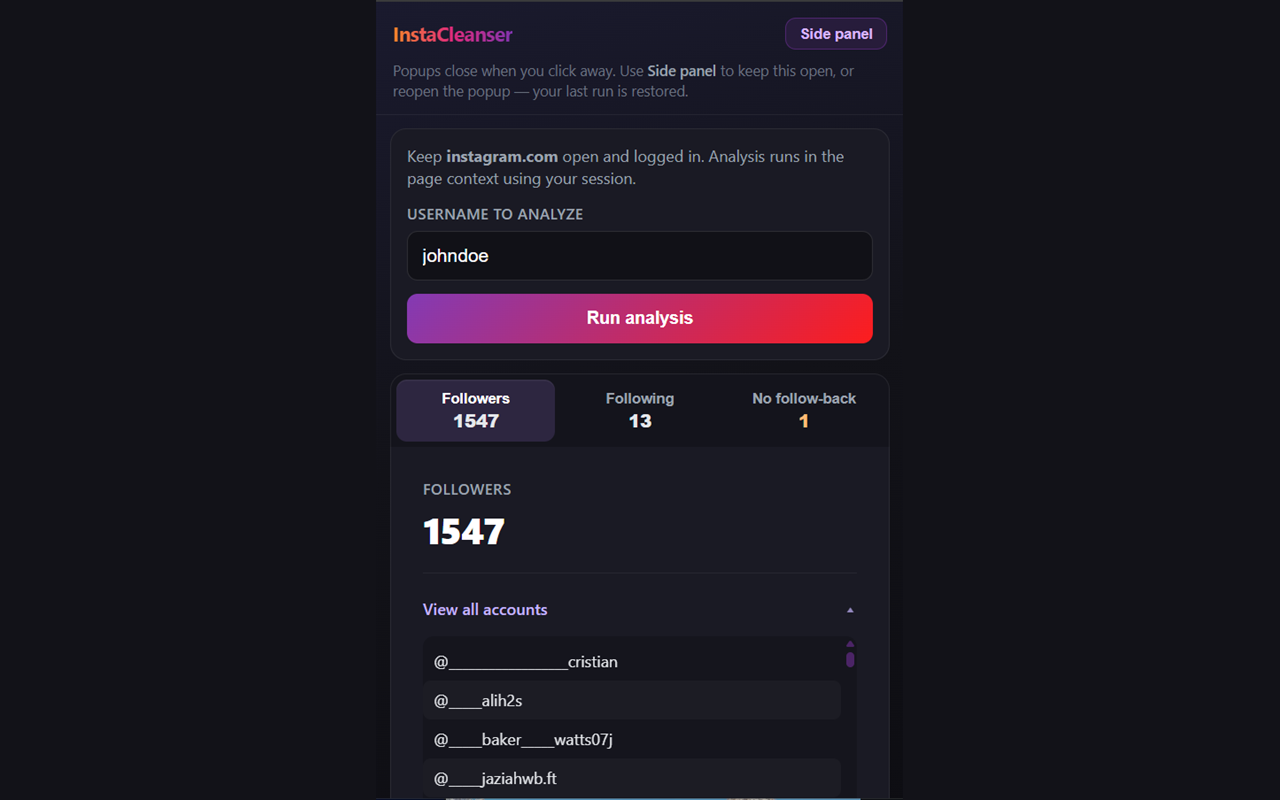
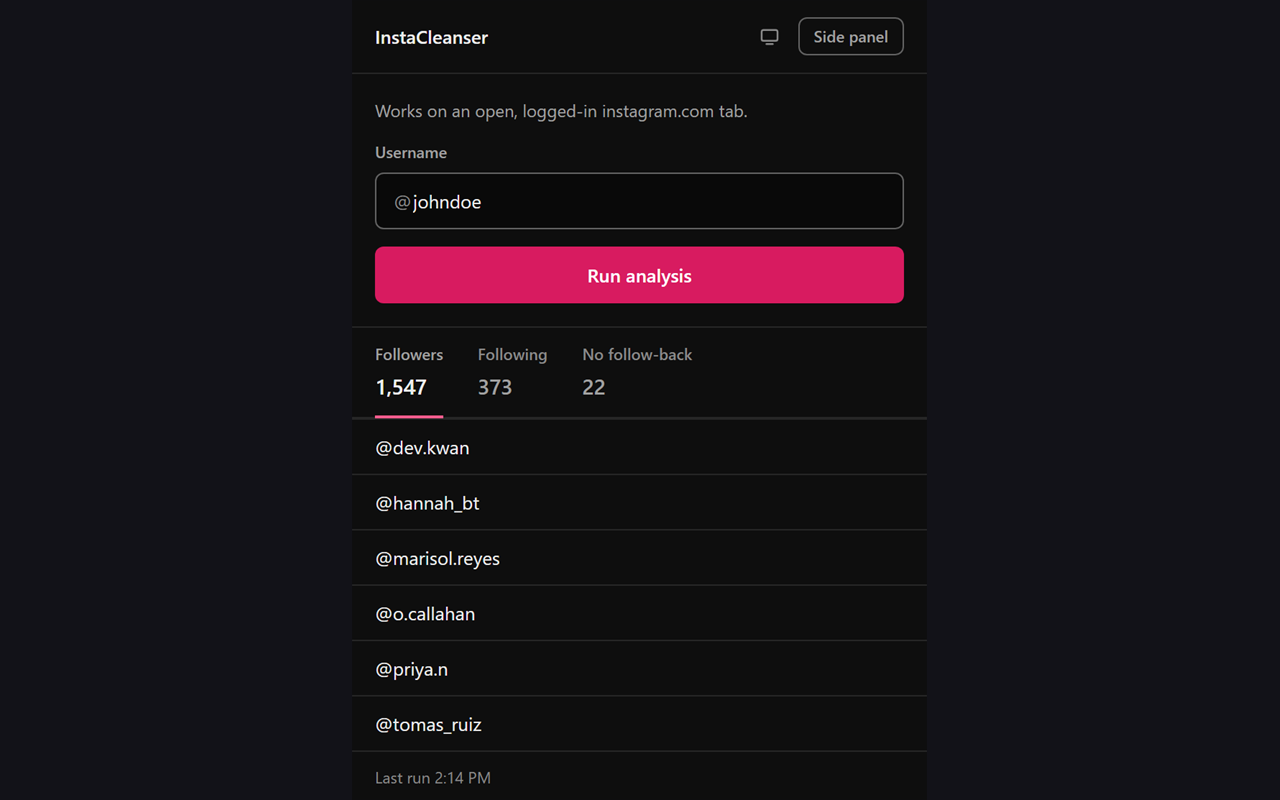
docs: rewrite README and replace the stale screenshots
The README still described and pictured the pre-redesign extension.

Screenshots: assets/icMain.png and icNFB.png showed the old gradient UI, so
they are replaced by four renders of the current popup, light and dark, and
the README serves them through <picture> so they follow the reader's GitHub
theme. They are rendered from the extension's own popup.html/css/js with
placeholder account data, which the README states.

Prose: drops the bold-splatter habit (bold now marks only controls the reader
clicks) and the em-dashes. Reorders so the two install paths sit together
instead of being split by the site-publishing section, and adds a repository
layout table, a short "how it works", and the note that popup.css and
site/styles.css must be kept in sync.

Also corrects a claim that had become false: the site no longer uses "the
same dark palette and gradient accents as the popup". It has no gradients,
and both surfaces are light/dark now.

Reference updates forced by removing the old files: og:image and
twitter:image in site/index.html, and the default source in
tools/make-store-screenshot.ps1. The store marquee is regenerated from the
new screenshot.

diff --git a/site/index.html b/site/index.html
@@ -18,7 +18,7 @@
   <meta property="og:url" content="https://troydavis.me/instacleanser/" />
   <meta
     property="og:image"
-    content="https://troydavis.me/instacleanser/assets/icMain.png"
+    content="https://troydavis.me/instacleanser/assets/popup-main-dark.png"
   />
   <meta name="twitter:card" content="summary_large_image" />
   <meta name="twitter:title" content="InstaCleanser" />
@@ -28,7 +28,7 @@
   />
   <meta
     name="twitter:image"
-    content="https://troydavis.me/instacleanser/assets/icMain.png"
+    content="https://troydavis.me/instacleanser/assets/popup-main-dark.png"
   />
   <script>
     // Applied before first paint so the page never renders in the wrong theme.

diff --git a/README.md b/README.md
@@ -1,70 +1,117 @@
 # InstaCleanser
 
-Chrome extension that compares your Instagram followers and following **in your browser** (same cookies as a normal instagram.com tab), lists people you follow who do not follow you back, and lets you unfollow individually or in bulk when you are viewing **your own** profile. 
+A Chrome extension that compares your Instagram followers and following using the tab you are already logged into, shows who does not follow you back, and unfollows them one at a time or in bulk.
 
-**Note: This is a heavily vibe-coded project that I did for fun after realizing the instaloader api method I was using before in a smaller python version of this was not going to cut it.**
+Everything runs in your own browser session, with the same cookies as a normal instagram.com tab. There is no backend, no InstaCleanser account, and no third-party login.
+
+[Install from the Chrome Web Store](https://chromewebstore.google.com/detail/ecphalengelfdcnhallaepjbjgbcbnbb) · [Website](https://troydavis.me/instacleanser/) · [Privacy policy](https://troydavis.me/instacleanser/privacy.html)
+
+> A heavily vibe-coded project I built for fun, after the Instaloader-based Python version I had before turned out not to cut it.
 
 ## Screenshots
 
-### Main view (Followers / Following)
+<table>
+<tr>
+<td width="50%" valign="top">
+<picture>
+  <source media="(prefers-color-scheme: dark)" srcset="assets/popup-main-dark.png">
+  <img src="assets/popup-main-light.png" alt="InstaCleanser after a run, with the Followers tab selected and the account list below it" width="100%">
+</picture>
+</td>
+<td width="50%" valign="top">
+<picture>
+  <source media="(prefers-color-scheme: dark)" srcset="assets/popup-nonfb-dark.png">
+  <img src="assets/popup-nonfb-light.png" alt="The No follow-back tab, listing accounts you follow that do not follow back, each with an Unfollow button" width="100%">
+</picture>
+</td>
+</tr>
+<tr>
+<td valign="top">After a run, counts sit in the tab strip and the list starts directly below it. Followers and Following share the same layout.</td>
+<td valign="top">On your own profile, No follow-back lists accounts you follow that do not follow back. Unfollow one at a time, or use <strong>Unfollow all</strong>.</td>
+</tr>
+</table>
 
-The main UI after a run: stats, **Followers** / **Following** / **Don’t follow back** tabs, and scrollable lists. The **Followers** tab is shown here; the **Following** tab uses the same list layout.
-
-<img src="assets/icMain.png" alt="InstaCleanser main view with Followers tab and list" width="480" />
-
-### Don’t follow back (unfollow)
-
-On **your own** profile, the **Don’t follow back** tab lists accounts you follow that do not follow you back. You can **Unfollow** one at a time or use **Unfollow all**.
-
-If you analyze **someone else’s** username, those unfollow actions are **disabled** (read-only lists) so you cannot unfollow from another person’s profile.
-
-<img src="assets/icNFB.png" alt="InstaCleanser don’t-follow-back tab with unfollow controls" width="480" />
+Both surfaces follow your system light or dark setting, and carry a toggle if you want to override it. These images are rendered from the extension's own `popup.html`, `popup.css`, and `popup.js` with placeholder account data.
 
 ## Requirements
 
-- Google Chrome or Microsoft Edge (Chromium), **114+** (for the optional side panel).
-- Stay logged in on [instagram.com](https://www.instagram.com) in the tab you use for analysis.
+- Chrome or Edge on Chromium. Version 114 or later if you want the side panel.
+- A logged-in [instagram.com](https://www.instagram.com) tab, open while you run an analysis.
 
-## Install (Chrome Web Store)
+## Install
 
-[InstaCleanser on the Chrome Web Store](https://chromewebstore.google.com/detail/ecphalengelfdcnhallaepjbjgbcbnbb)
+**From the Chrome Web Store:** [InstaCleanser](https://chromewebstore.google.com/detail/ecphalengelfdcnhallaepjbjgbcbnbb). Updates arrive automatically.
 
-## Website (landing page)
-
-Static marketing page for the extension lives in [`site/`](site/). It uses the same dark palette and gradient accents as the popup. Open [`site/index.html`](site/index.html) locally, or serve the repo root so asset paths resolve.
-
-**GitHub Pages (project site):** In the repo on GitHub, go to **Settings → Pages**, set **Source** to **Deploy from a branch**, branch **main**, folder **`/` (root)**. After the build, the site is available at `https://<your-username>.github.io/InstaCleanser/site/` (screenshots load from `/InstaCleanser/assets/…`). If you use a custom domain, update `link rel="canonical"` and the `og:*` / `twitter:*` absolute URLs in [`site/index.html`](site/index.html).
-
-**Privacy policy (Chrome Web Store):** Use [`site/privacy.html`](site/privacy.html) as the policy URL (for example `https://troydavis.me/instacleanser/privacy.html`). `homepage_url` in [`manifest.json`](manifest.json) points at the public site; ship a new package version when you change it.
-
-## Install (developer / unpacked)
+**As an unpacked developer build:**
 
 1. Clone or download this repository.
-2. Open `chrome://extensions` (Chrome) or `edge://extensions` (Edge).
-3. Enable **Developer mode**.
-4. Click **Load unpacked** and choose this folder (the repo root — the one that contains `manifest.json`).
+2. Open `chrome://extensions`, or `edge://extensions` on Edge.
+3. Turn on **Developer mode**.
+4. Choose **Load unpacked** and pick the repo root, the folder holding `manifest.json`.
+
+After changing any file, use the reload button on the extension's card, then close and reopen the popup.
 
 ## Usage
 
 1. Open Instagram in a normal tab and log in.
 2. Click the InstaCleanser toolbar icon.
-3. Enter a **username to analyze** (yours or someone else’s). For unfollow actions, the username must be **yours**; for other profiles, lists are read-only.
-4. Click **Run analysis**. Large accounts take a while.
-5. Use **Side panel** to dock the UI so it stays open while you switch tabs; the toolbar popup closes automatically when you open the side panel.
+3. Enter a username. It can be yours or someone else's.
+4. Choose **Run analysis**. Large accounts take a while.
 
-Data from the last successful run is stored locally in `chrome.storage` and restored when you reopen the popup or side panel.
+Unfollow controls only appear when the username is your own. On anyone else's profile the lists are read-only, so you cannot change your following by mistake.
+
+Use **Side panel** to dock the interface so it stays open while you switch tabs. The toolbar popup closes when the side panel opens.
+
+Your last successful run is cached in `chrome.storage` and comes back when you reopen the popup or panel. Your theme choice is stored separately in `localStorage`, so it can be read before the first paint.
+
+## How it works
+
+There is no public Instagram API for this, so the extension calls the same undocumented GraphQL endpoints the website itself uses. Requests are injected into your active Instagram tab and run in the page context, which is why they carry your session and why the tab has to be open and logged in.
+
+Follower and following lists are paged until exhausted, capped at 500 pages. The no-follow-back list is the set difference between the two.
 
 ## Permissions
 
-- **instagram.com** — run fetches in the page context with your session.
-- **activeTab**, **scripting** — inject analysis/unfollow on the active Instagram tab.
-- **storage** — cache last run and UI state.
-- **sidePanel** — optional docked panel.
+| Permission | Why |
+| --- | --- |
+| `instagram.com` host access | Run fetches in the page context with your session. |
+| `activeTab`, `scripting` | Inject the analysis and unfollow code into the active tab. |
+| `storage` | Cache the last run and interface state on your device. |
+| `sidePanel` | The optional docked panel. |
+
+## Repository layout
+
+| Path | What it is |
+| --- | --- |
+| `manifest.json` | Extension manifest, MV3. |
+| `popup.html`, `popup.css`, `popup.js` | The popup and side panel. One document serves both. |
+| `background.js` | Service worker. |
+| `icons/` | Toolbar and store icons, plus the script that generates them. |
+| `site/` | The landing page and privacy policy. |
+| `assets/` | Screenshots and store artwork. |
+| `tools/` | Store screenshot helper. |
+
+`popup.css` and `site/styles.css` define the same design tokens under the same names. They cannot share a file, since the extension and the site load independently, so keep the two in sync when changing either.
+
+To regenerate the icons: `powershell -File icons/generate-icons.ps1`.
+
+## Publishing the site
+
+The landing page in [`site/`](site/) is static. Open [`site/index.html`](site/index.html) directly, or serve the repo root so the asset paths resolve.
+
+**GitHub Pages:** go to **Settings → Pages**, set **Source** to **Deploy from a branch**, branch `main`, folder `/` (root). The site then lives at `https://<your-username>.github.io/InstaCleanser/site/`, loading screenshots from `/InstaCleanser/assets/`.
+
+On a custom domain, update `rel="canonical"` and the absolute `og:*` and `twitter:*` URLs in [`site/index.html`](site/index.html).
+
+**Privacy policy:** the Chrome Web Store listing points at [`site/privacy.html`](site/privacy.html). `homepage_url` in [`manifest.json`](manifest.json) points at the public site, so ship a new package version when either changes.
 
 ## Disclaimer
 
-Instagram does not offer a public API for this workflow. The extension uses the same undocumented endpoints the website uses; behavior may change. Use unfollow features responsibly and at your own risk.
-**Instagram does limit unfollow requests.** If you are hit with a 400 error, just wait some time.
+The undocumented endpoints this extension relies on can change without notice, and using them is at your own risk.
+
+Instagram rate-limits unfollow requests. If you get a 400 error, wait before trying again.
+
+Not affiliated with Meta Platforms, Inc. or Instagram.
 
 ## License
 
